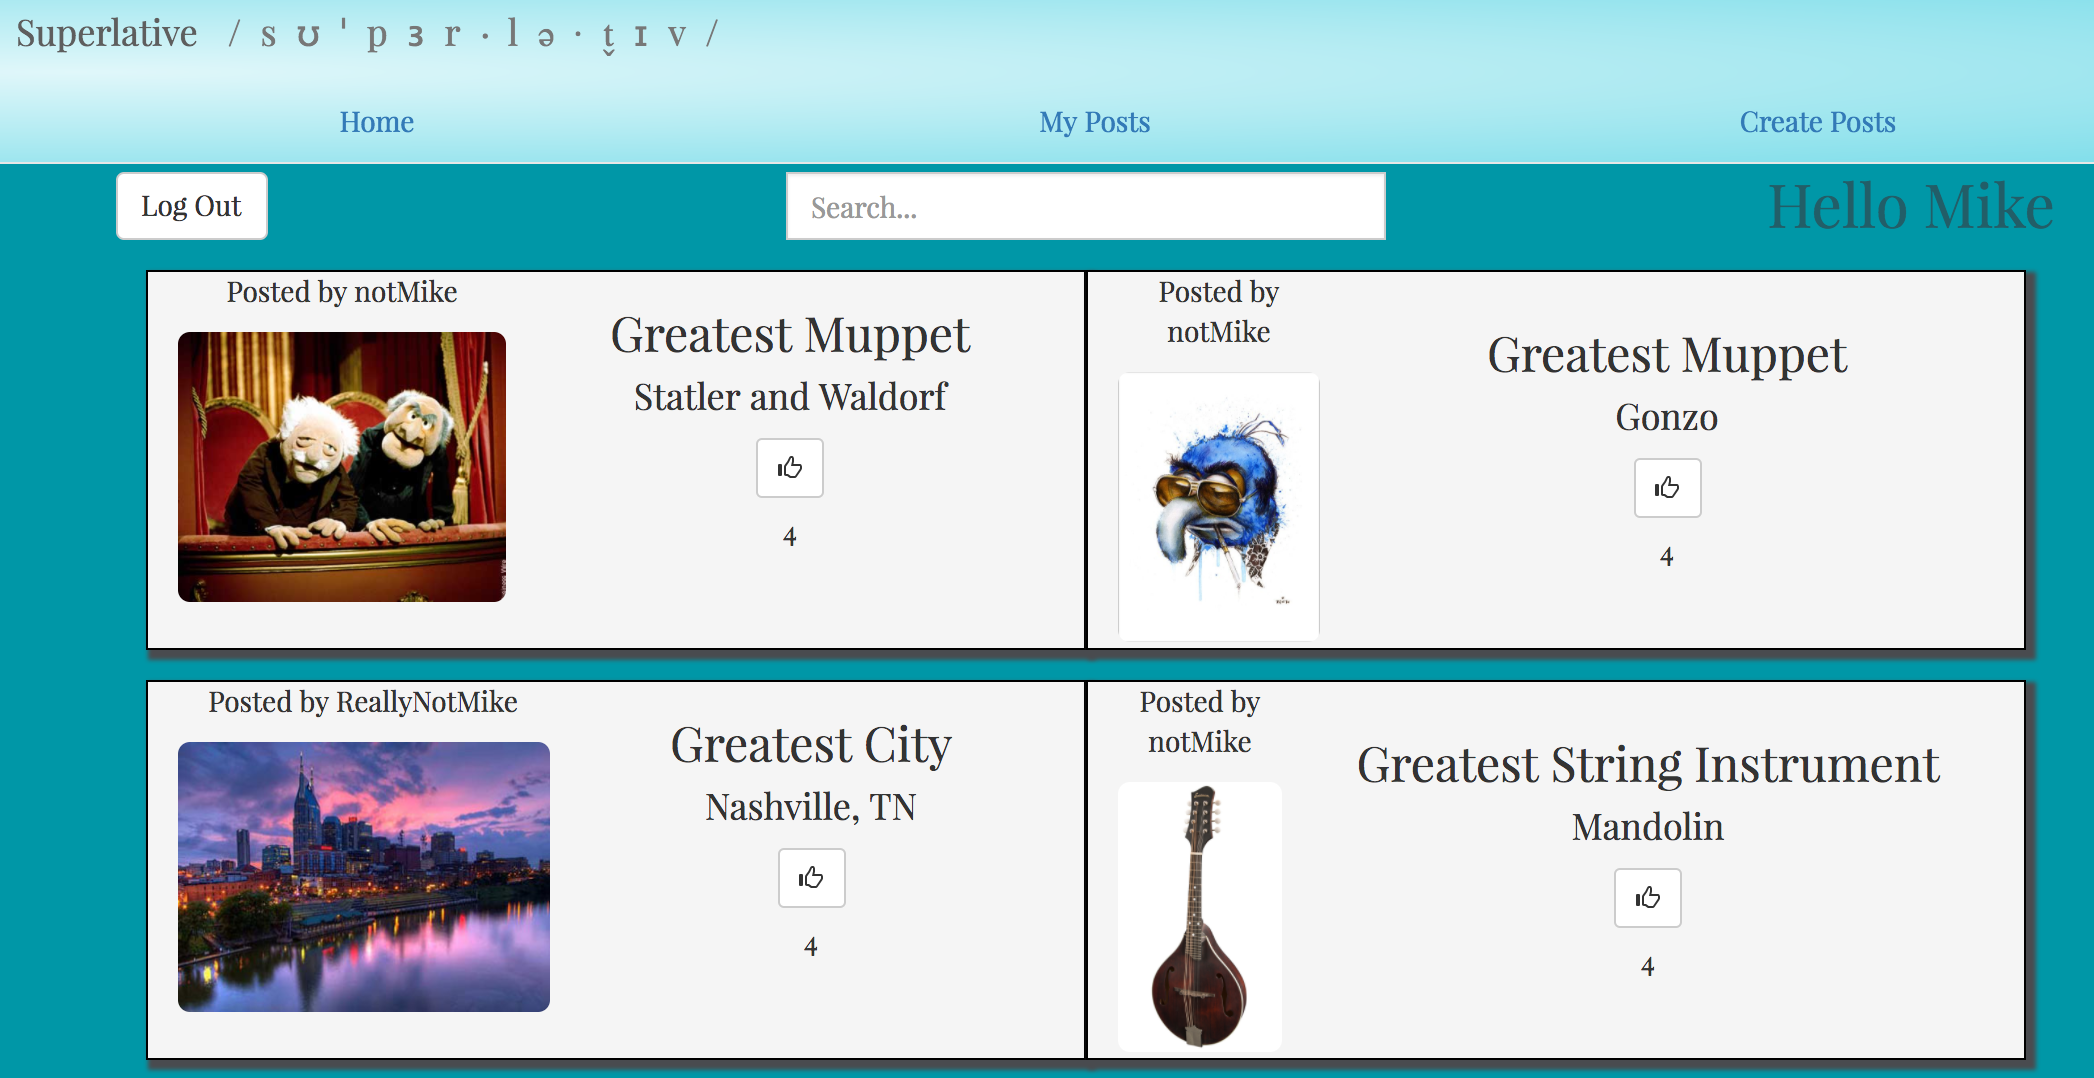
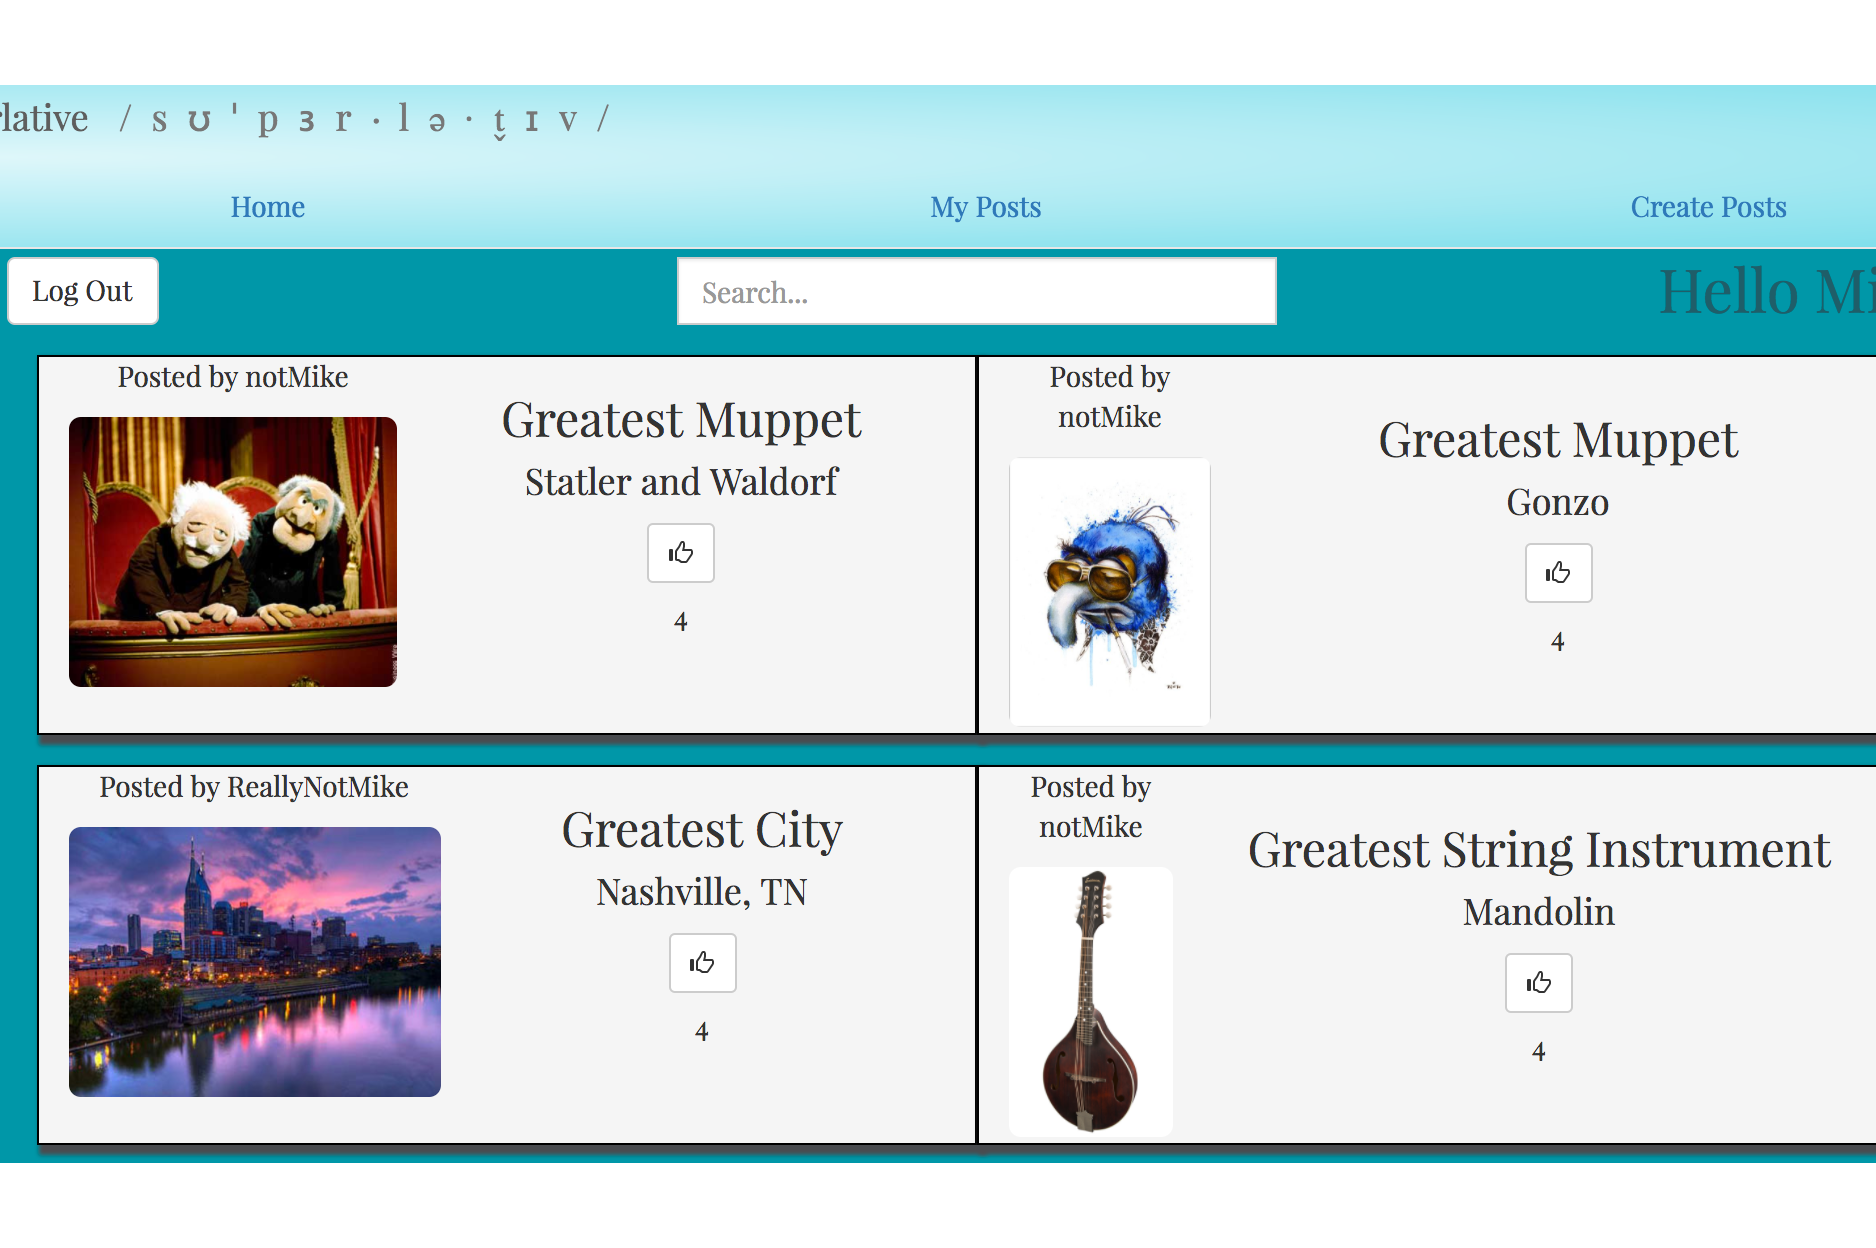
jquery funcs for toggle views, fixed sizing for project cards and img, and column issues on resizing

diff --git a/index.html b/index.html
@@ -14,19 +14,19 @@
 		<div class="row">
 			<div class="col s12 m3 section">
 				<div class="name center">
-				 	<h2>Michael Watson</h2>
-				 	<h4>Developer</h4>
+				 	<h2 class="flow-text">Michael Watson</h2>
+				 	<h4 class="flow-text">Developer</h4>
 				 </div>
 				<div class="links center">
 			 		<ul class="">
-					  <li id="about-link"><a href="#">About</a></li>
-					  <li id="projects"><a href="#">Projects</a></li>
-					  <li><a href="https://www.linkedin.com/in/michael-watson615/">LinkedIn</a></li>
-					  <li><a href="https://github.com/mwatson615">Github</a></li>
+					  <li class="flow-text"><a class="showView" href="#about-me">About</a></li>
+					  <li class="flow-text"><a class="showView" href="#projectId">Projects</a></li>
+					  <li class="flow-text"><a href="https://www.linkedin.com/in/michael-watson615/">LinkedIn</a></li>
+					  <li class="flow-text"><a href="https://github.com/mwatson615">Github</a></li>
 					</ul>
 					</div>
 			</div>
-			<div class="col s12 m7 offset-m1 showInfo" id="about-me">
+			<div class="col s12 m7 infoDiv offset-m1" id="about-me">
 				      <div class="row center">
 				          <div class="card">
 				            <div class="card-image">
@@ -38,16 +38,16 @@
 				          </div>
 				        </div>
 				      </div>
-		<div class="col s12 m9">
-			  <div class="card projects col s5 offset-s1">
+		<div class="col s12 m9 infoDiv row" id="projectId">
+			  <div class="card projects col s4 offset-s1 m5 offset-m1">
 			  	<h2 class="header center-align flow-text">Superlative</h2>
 			    <div class="card-image waves-effect waves-block waves-light">
-			      <img class="activator" src="img/superlative.png">
+			      <img class="projectImg" src="img/superlative.png">
 			    </div>
 			    <div class="card-content center-align">
-			      <p><a href="#superlativeInfo"">Info</a></p>
-			      <p><a href="https://mwatson615.github.io/front-end-capstone-project/">Deployed</a></p>
-			      <p><a href="https://github.com/mwatson615/front-end-capstone-project">Repo</a></p>
+			      <p class="flow-text"><a href="#superlativeInfo"">Info</a></p>
+			      <p class="flow-text"><a href="https://mwatson615.github.io/front-end-capstone-project/">Deployed</a></p>
+			      <p class="flow-text"><a href="https://github.com/mwatson615/front-end-capstone-project">Repo</a></p>
 			    </div>
 			       <div id="superlativeInfo" class="modal">
 				    <div class="modal-content">
@@ -55,15 +55,15 @@
 				    </div>
 				  </div>
 			  </div>
-			    <div class="card projects col s5 offset-s1">
+			    <div class="card projects col s4 offset-s2 m5 offset-m1">
 			    	<h2 class="header center-align flow-text">SNAP Test</h2>
 				    <div class="card-image waves-effect waves-block waves-light">
-				      <img class="activator" src="img/snaptest-results.png">
+				      <img class="projectImg" src="img/snaptest-results.png">
 				    </div>
 				    <div class="card-content center-align">
-				      <p><a href="#snapInfo">Info</a></p>
-				      <p><a href="https://www.snaptest.help">Deployed</a></p>
-				      <p><a href="https://github.com/mwatson615/snap-determination-capstone">Repo</a></p>
+				      <p class="flow-text"><a href="#snapInfo">Info</a></p>
+				      <p class="flow-text"><a href="https://www.snaptest.help">Deployed</a></p>
+				      <p class="flow-text"><a href="https://github.com/mwatson615/snap-determination-capstone">Repo</a></p>
 				    </div>
 				    <div id="snapInfo" class="modal">
 				    	<div class="modal-content">

diff --git a/style.css b/style.css
@@ -8,21 +8,21 @@ body {
 	font-size: 2em;
 }
 
-.page-header {
+/*.page-header {
 	color: #dadee5;
-}
+}*/
 
 .name {
 	color: white;
 }
 
-h1 {
+/*h1 {
 	justify-content: left;
 }
 
 h2 {
 	justify-content: left;
-}
+}*/
 
 ul > li {
 	list-style: none;
@@ -33,30 +33,23 @@ ul {
 	justify-content: space-between;
 }
 
-.showInfo {
+#about-me,
+#projectId {
 	display: none;
 }
 
 .projects {
-	height: 85vh;
+	height: 50vh;
 	margin-top: 7vh;
-	/*margin-left: 5%;*/
 }
 
 .card {
-	max-height: 90vh;
+	height: auto;
 	border-radius: 15px;
-	/*margin-top: 5%;*/
-	/*margin: 5% 2.5% 5% 2.5%;*/
 }
 
-.images img {
-	max-width: 75%;
-	margin: 5% auto;
-}
-
-.images p {
-	text-align: center;
+.projectImg {
+	height: inherit;
 }
 
 .about-me {
@@ -80,10 +73,4 @@ footer {
 	height:30px;
 	width:100%;
 	color: #dadee5;
-}
-
-@media (max-width: 720px) {
-	.images img {
-		margin: auto;
-	}
 }

diff --git a/app.js b/app.js
@@ -1,19 +1,18 @@
 
-
-
-function showOne(divId) {
-	console.log("hi there")
-	$(".showInfo").each(function() {
-		if ($(this).attr("id") == divId) {
-			$(this).show("slow")
-		} else {
-			$(this).hide(600);
-		}
+$(document).ready(function() {
+	$(".showView").click(function(el) {
+	$(".infoDiv").hide()
+	showOne(el.target.hash);
 	})
-}
-$("#about-link").click(function() {
-showOne();
 })
+
+function showOne(target) {
+		if (target === "#about-me" ) {
+			$("#about-me").toggle("slow")
+		} else if (target === "#projectId") {
+			$("#projectId").toggle("slow")
+		}
+	}
 
 $('.modal').modal({
 	dismissible: true
